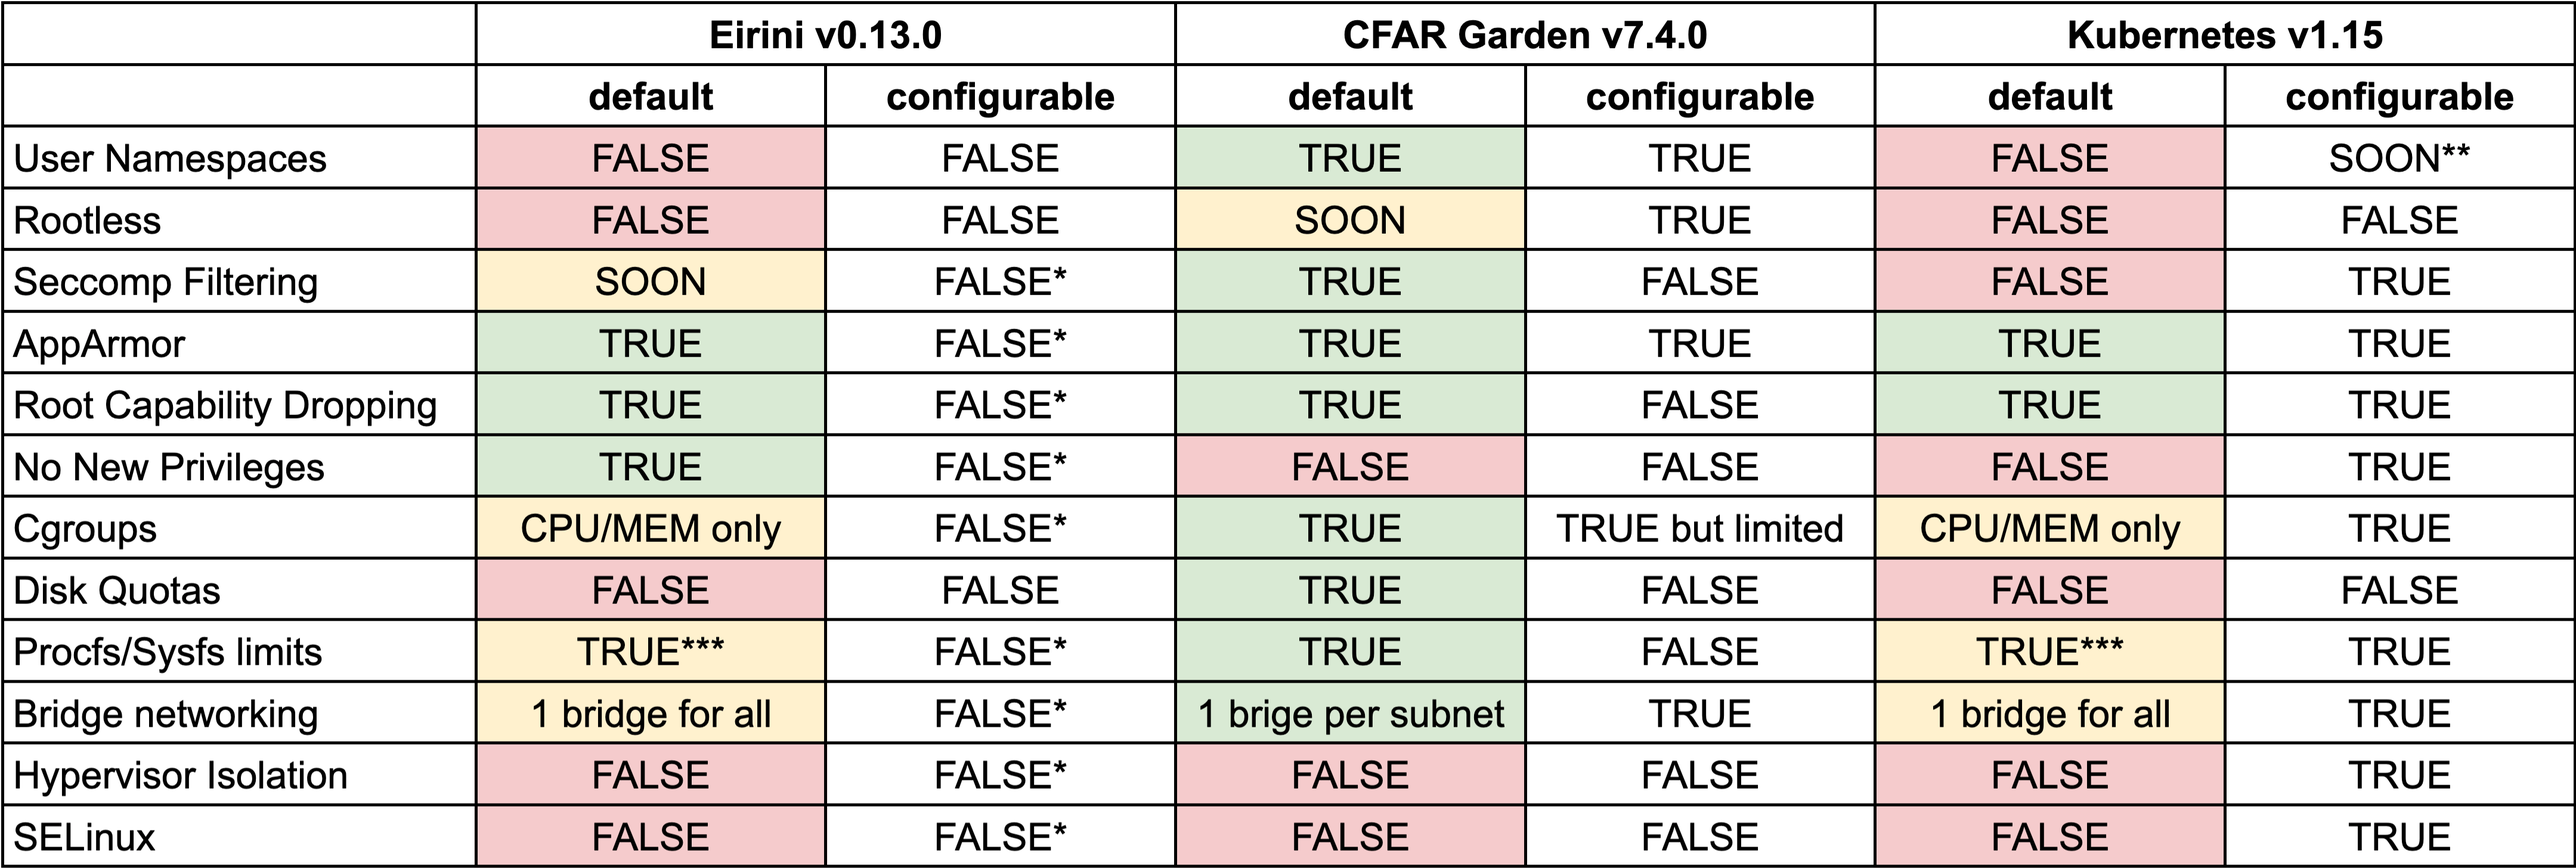
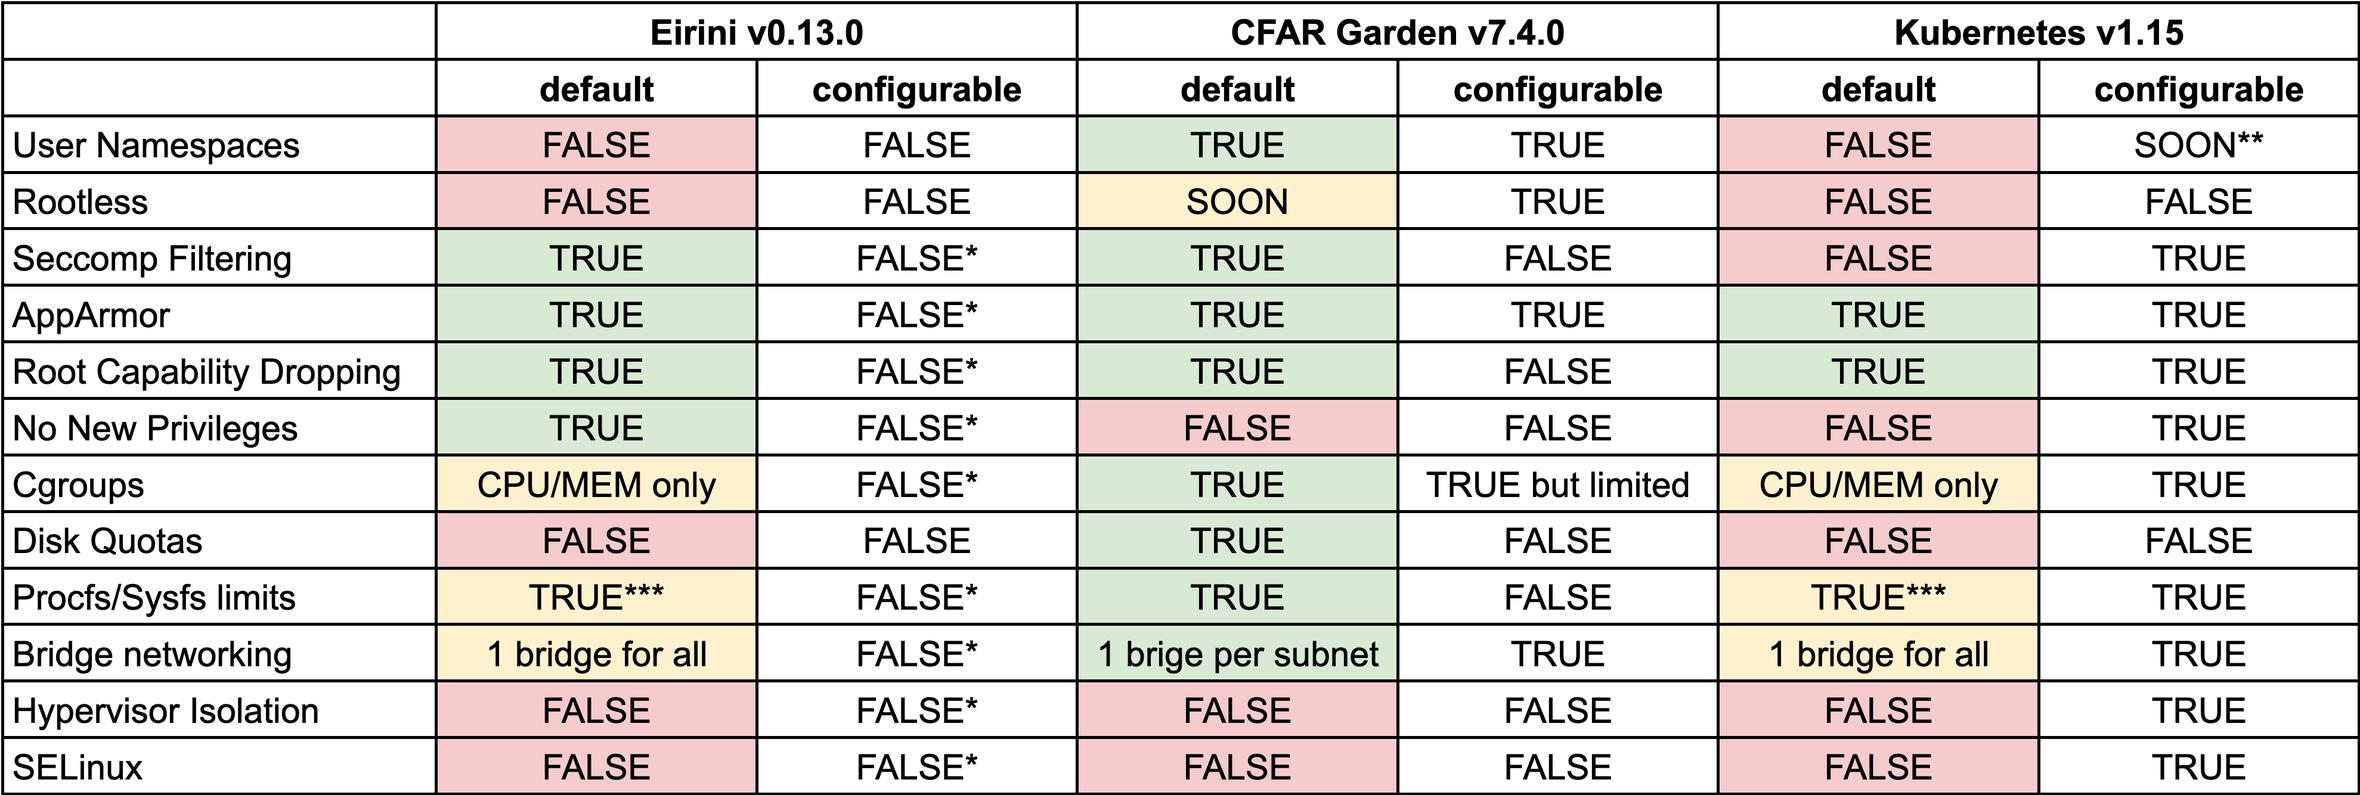
Bump eirini. Update security docs
[#167127083]

diff --git a/docs/security-overview.md b/docs/security-overview.md
@@ -12,10 +12,10 @@ Table last updated 08/07/19. [Link to spreadsheet](https://docs.google.com/sprea
 
 * User Namespaces - False, not possible in Kubernetes yet
 * Rootless - False, not possible in Kubernetes yet
-* Seccomp - Soon, [relevant Pivotal Tracker story](https://www.pivotaltracker.com/story/show/167127083)
+* Seccomp - True, runtime default is applied
 * AppArmor - True, runtime default is applied
 * Root Capability Dropping - True, runtime default is applied
-* No New Privileges - Soon, [relevant Pivotal Tracker story](https://www.pivotaltracker.com/story/show/167129301)
+* No New Privileges - True, [`allowPrivilegedEscalation` is set to `false`](https://kubernetes.io/docs/tasks/configure-pod-container/security-context/)
 * Cgroups - True if container processes' access to physical resources restricted by Cgroups
 * Disk Quotas - False, not possible in Kubernetes yet
 * Procfs/Sysfs limits - True, runtime default is applied
